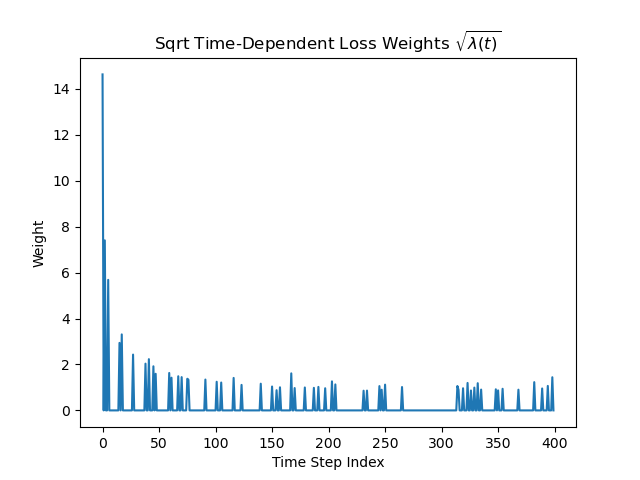
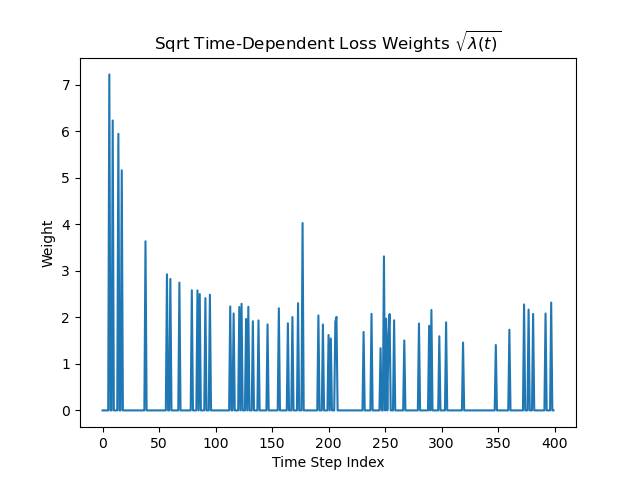
fixed NaN loss bug

diff --git a/train.py b/train.py
@@ -209,23 +209,31 @@ for epoch in tqdm_epoch:
         # Get continuous time points for the model
         random_timepoints = timepoints[random_t_idx].to(device) # Shape [B]
         
-        print(f"  Min: {perturbed_x.min()}, Max: {perturbed_x.max()}")
+        # print(f"  Min: {perturbed_x.min()}, Max: {perturbed_x.max()}")
         # --- Model Forward Pass ---
         # Pass the noisy distribution, segment sizes, and continuous time
         predicted_score = score_model(perturbed_x, segment_sizes, random_timepoints) # Output: [B, L, V] # NAN
         # --- Calculate DDSM Loss ---
+        # print("logit:", predicted_score.isnan().any(), predicted_score.isinf().any())
+        
         if config.random_order:
                 raise NotImplementedError("Random order logic needs careful implementation matching gx_to_gv")
         else:
             # Transform gradients to stick-breaking space
             perturbed_v = sb._inverse(perturbed_x, prevent_nan=True).detach() # [B, L, V-1]
+            # print("perturbed_v:", perturbed_v.isnan().any(), perturbed_v.isinf().any())
+
             pred_grad_v = gx_to_gv(predicted_score, perturbed_x, create_graph=True) # [B, L, V-1]
+            # print("pred_v:", pred_grad_v.isnan().any(),pred_grad_v.isinf().any())
+        
             true_grad_v = gx_to_gv(perturbed_x_grad, perturbed_x) # [B, L, V-1]
+            # print("tru_v:", true_grad_v.isnan().any(),true_grad_v.isinf().any())
+
         # Get loss weights for the sampled times
-        current_loss_weights = (1.0 / time_loss_weights_sqrt)[random_t_idx] # Shape [B]
-        # print("LOSS NAN", current_loss_weights.isnan().any()) # false
-        # Expand weights for broadcasting: [B, 1, 1]
-        current_loss_weights = current_loss_weights.view(B, 1, 1)
+        # current_loss_weights = (1.0 / time_loss_weights_sqrt)[random_t_idx] # Shape [B]
+        # print("LOSS NAN", current_loss_weights.isnan().any(),current_loss_weights.isinf().any()) # false
+        # # Expand weights for broadcasting: [B, 1, 1]
+        # current_loss_weights = current_loss_weights.view(B, 1, 1)
 
         # Speed balancing factor
         if config.speed_balanced:
@@ -234,7 +242,8 @@ for epoch in tqdm_epoch:
             s_weights = torch.ones(config.ncat - 1, device=device)
         # print("S NAN", s_weights.isnan().any()) # false
         # Calculate weighted squared error in v-space
-        loss_term = current_loss_weights * s_weights * perturbed_v * (1 - perturbed_v) * (pred_grad_v - true_grad_v)**2
+        # loss_term = current_loss_weights * s_weights * perturbed_v * (1 - perturbed_v) * (pred_grad_v - true_grad_v)**2
+        loss_term = s_weights * perturbed_v * (1 - perturbed_v) * (pred_grad_v - true_grad_v)**2
 
         # --- Apply Masking to Loss ---
         # Create mask based on actual sequence lengths (False where valid, True where padded)
@@ -250,7 +259,6 @@ for epoch in tqdm_epoch:
         total_loss_batch = loss_term_masked.sum()
         num_valid_elements = (~mask_expanded).sum()
         loss = total_loss_batch / num_valid_elements if num_valid_elements > 0 else torch.tensor(0.0, device=device)
-        print(loss)
         # --- Optimization Step ---
         optimizer.zero_grad()
         loss.backward()
@@ -258,6 +266,7 @@ for epoch in tqdm_epoch:
 
         avg_loss += loss.item() * B # Use weighted average if batch sizes vary?
         num_items += B
+        
 
     epoch_end_time = time.time()
     avg_loss /= num_items

diff --git a/ddsm.py b/ddsm.py
@@ -245,15 +245,18 @@ class UnitStickBreakingTransform(Transform):
 
     def log_abs_det_jacobian(self, x, y=None):
         # log det of the inverse transform
+        eps = 1e-6
         detJ = -(
-                (1 - x).log() * torch.arange(x.shape[-1] - 1, -1, -1, device=x.device)
+                torch.clamp(1.0 - x, min=eps).log() * torch.arange(x.shape[-1] - 1, -1, -1, device=x.device)
         ).sum(-1)
         return detJ
 
     def log_abs_det_jacobian_forward(self, x, y=None):
         # log det of the forward transform
+        eps = 1e-6
+        
         detJ = (
-                (1 - x).log() * torch.arange(x.shape[-1] - 1, -1, -1, device=x.device)
+                torch.clamp(1.0 - x, min=eps).log() * torch.arange(x.shape[-1] - 1, -1, -1, device=x.device)
         ).sum(-1)
         return detJ
 
